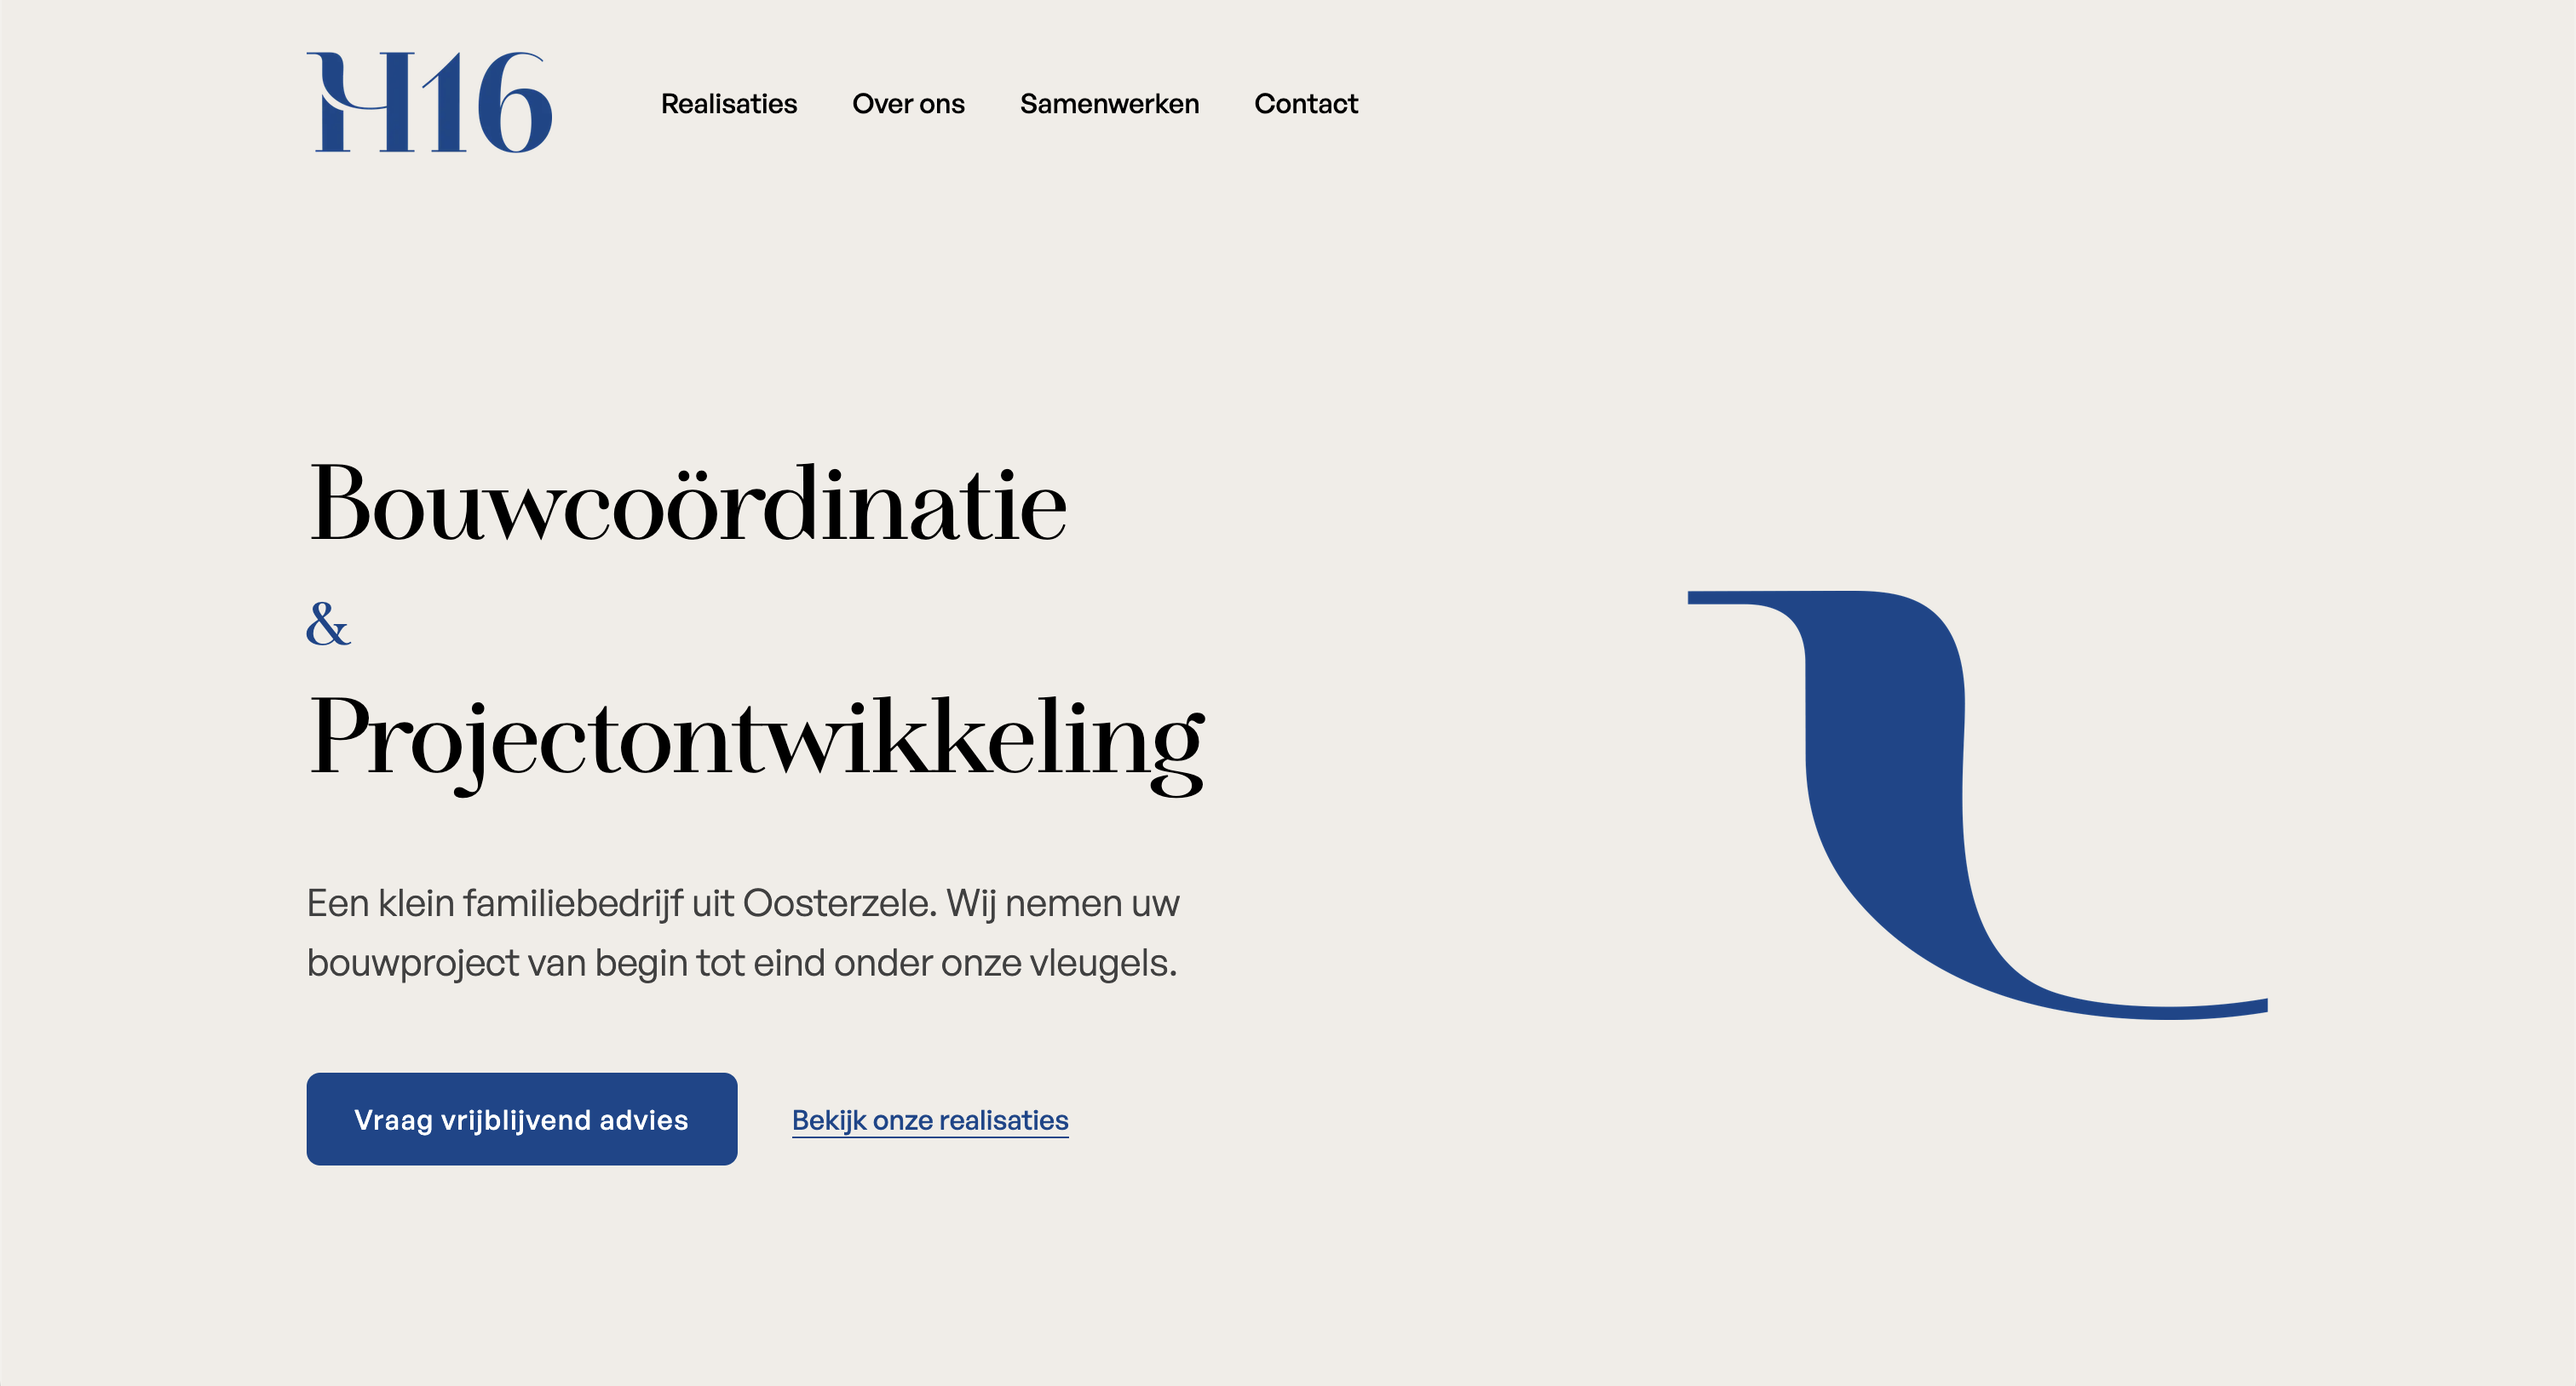
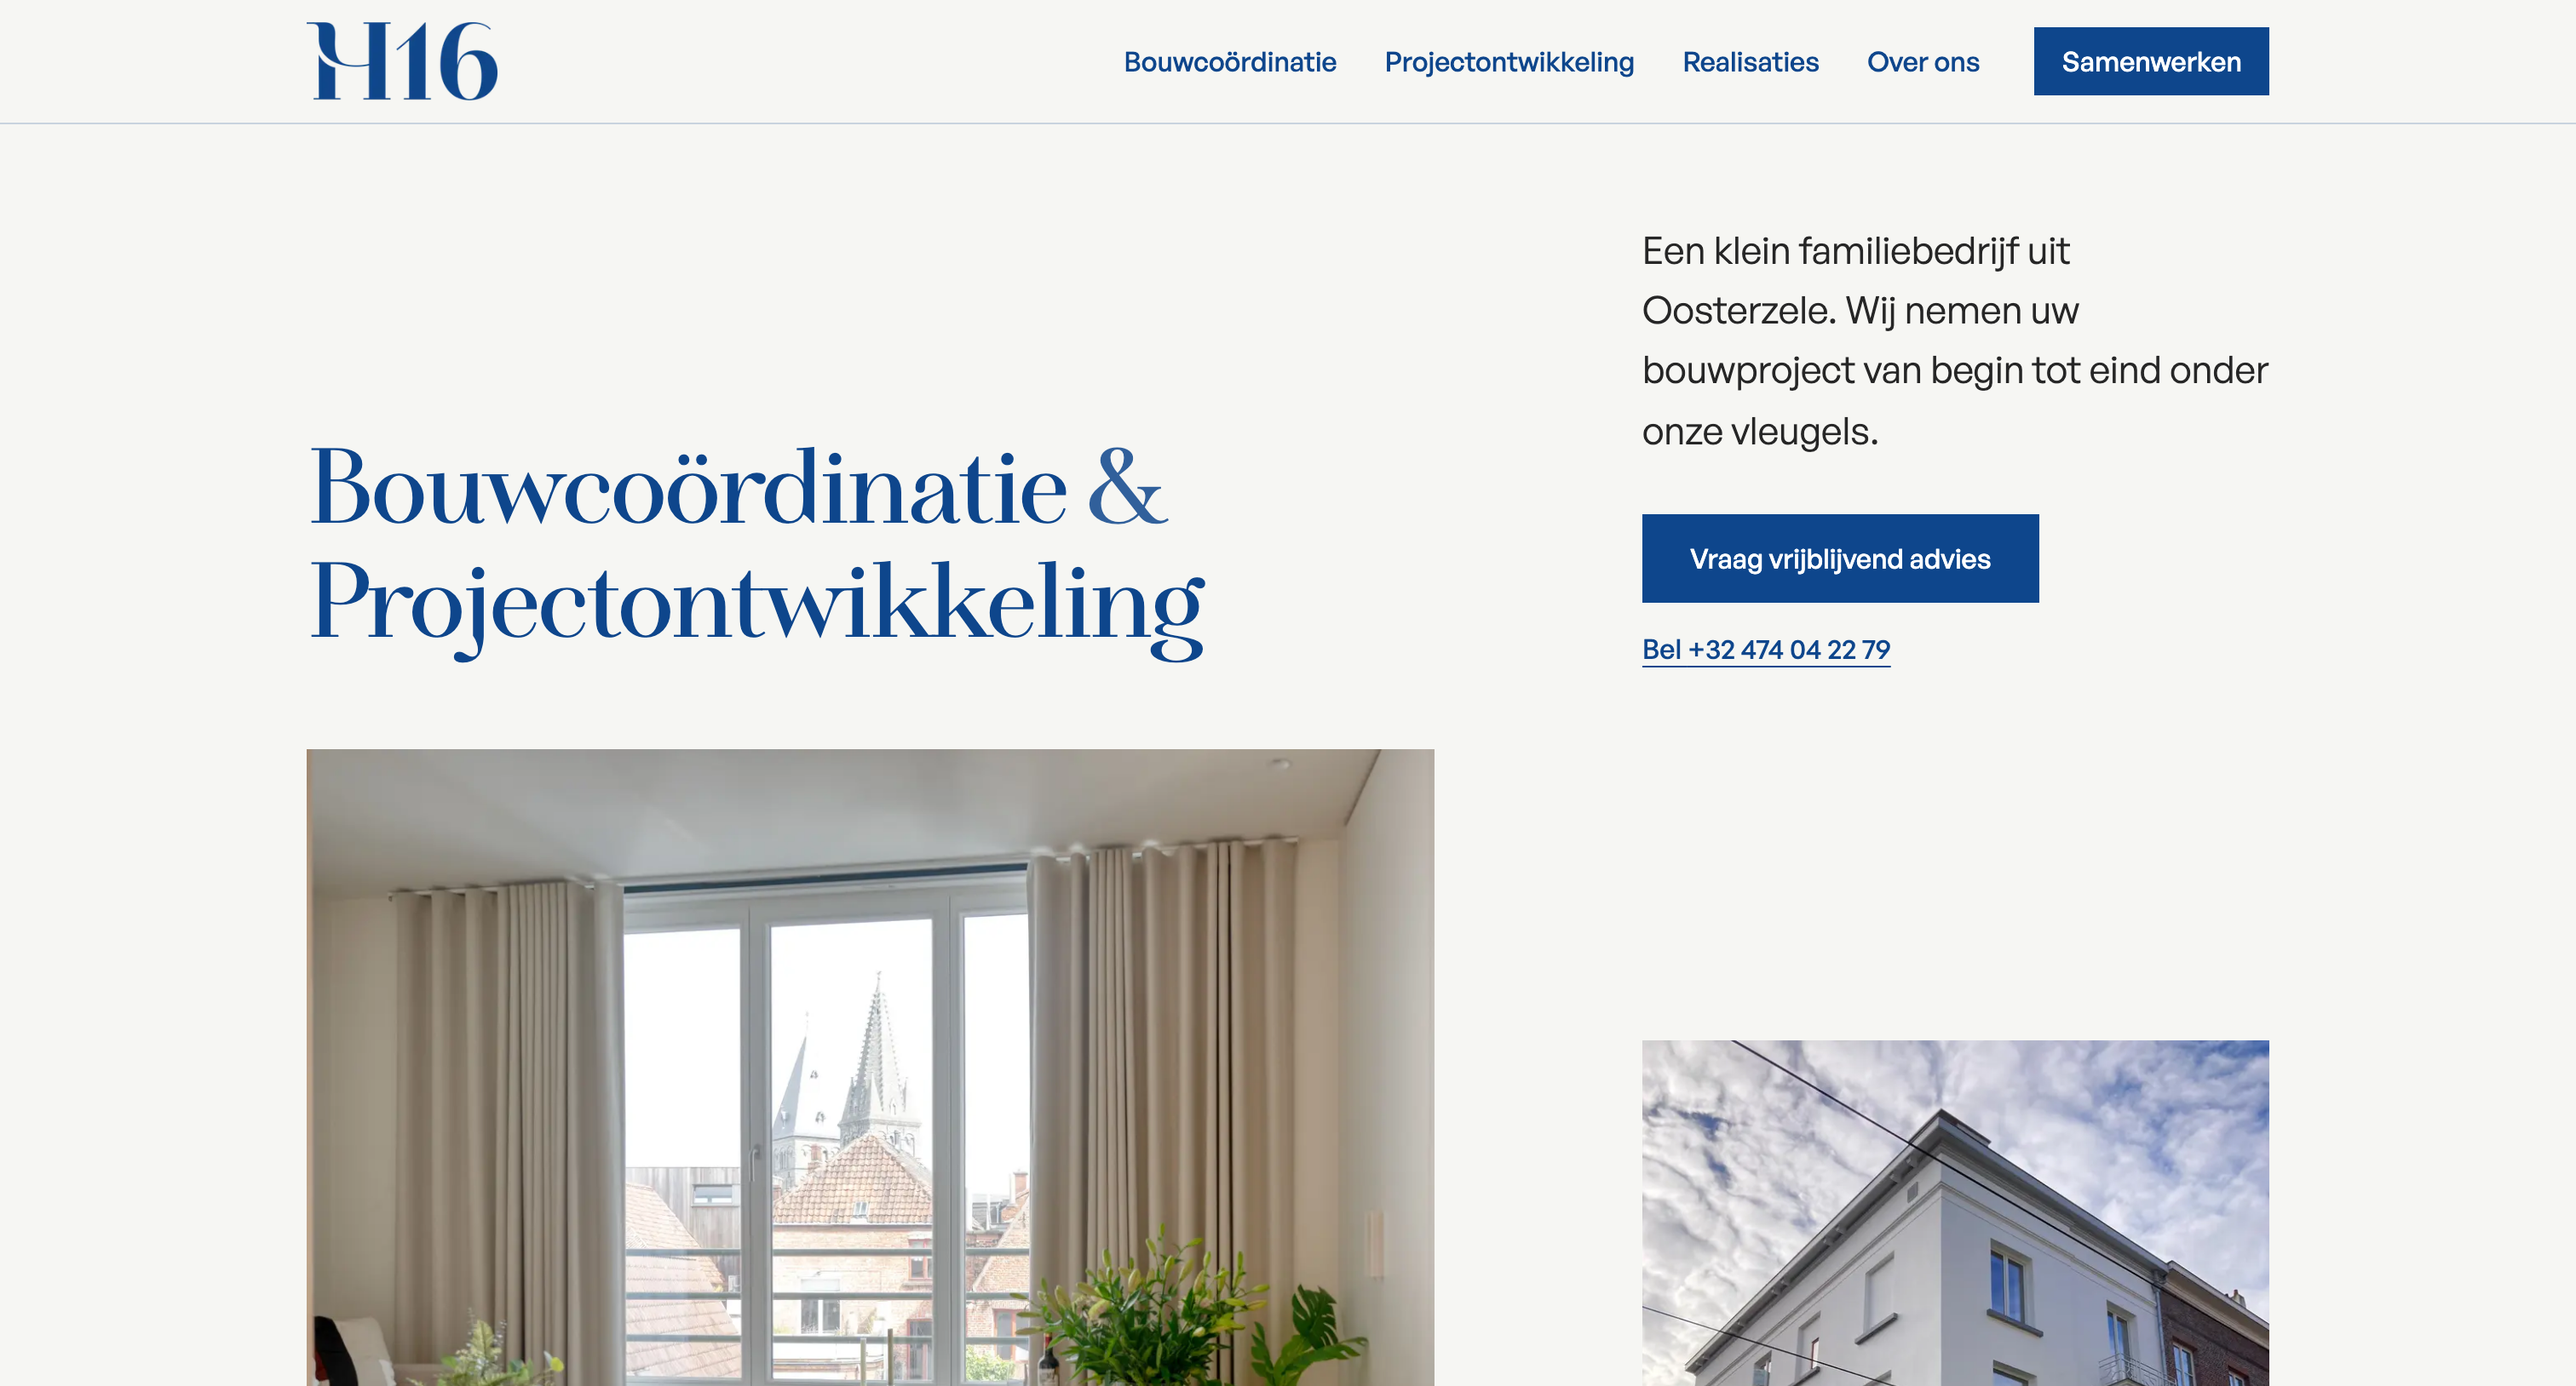
content: refresh H16 visuals and stack for the 2026 redesign

diff --git a/src/data/resume.tsx b/src/data/resume.tsx
@@ -356,15 +356,15 @@ export const DATA = {
     {
       title: "H16 Website",
       href: "https://www.h16.be",
-      dates: "2022",
+      dates: "2022 - 2026",
       active: true,
       description:
-        "Frontend and backend for H16.be: a responsive site with a CMS, hosted on AWS EC2 with an RDS database. Logo and typography by chilli.be.",
+        "Site for H16, a small construction coordination and property development firm near Ghent. I built the first version in 2022 and redid the design and code in 2026. It runs on Next.js with Strapi as the CMS, so they can add projects themselves, and is self-hosted on Hetzner. Logo and typography by chilli.be.",
       tags: [
-        "React",
-        "Node.js",
-        "AWS EC2",
-        "AWS RDS",
+        "Next.js",
+        "Tailwind CSS",
+        "Strapi",
+        "Hetzner",
         "CMS",
       ],
       links: [
@@ -378,9 +378,10 @@ export const DATA = {
       video: "",
       images: [
         "/projects/h16/thumbnail.png",
-        "/projects/h16/first.png",
-        "/projects/h16/main.png",
-        "/projects/h16/second.png",
+        "/projects/h16/landing-full.jpg",
+        "/projects/h16/realisaties.png",
+        "/projects/h16/werkwijze.png",
+        "/projects/h16/team.png",
       ],
     },
     {
